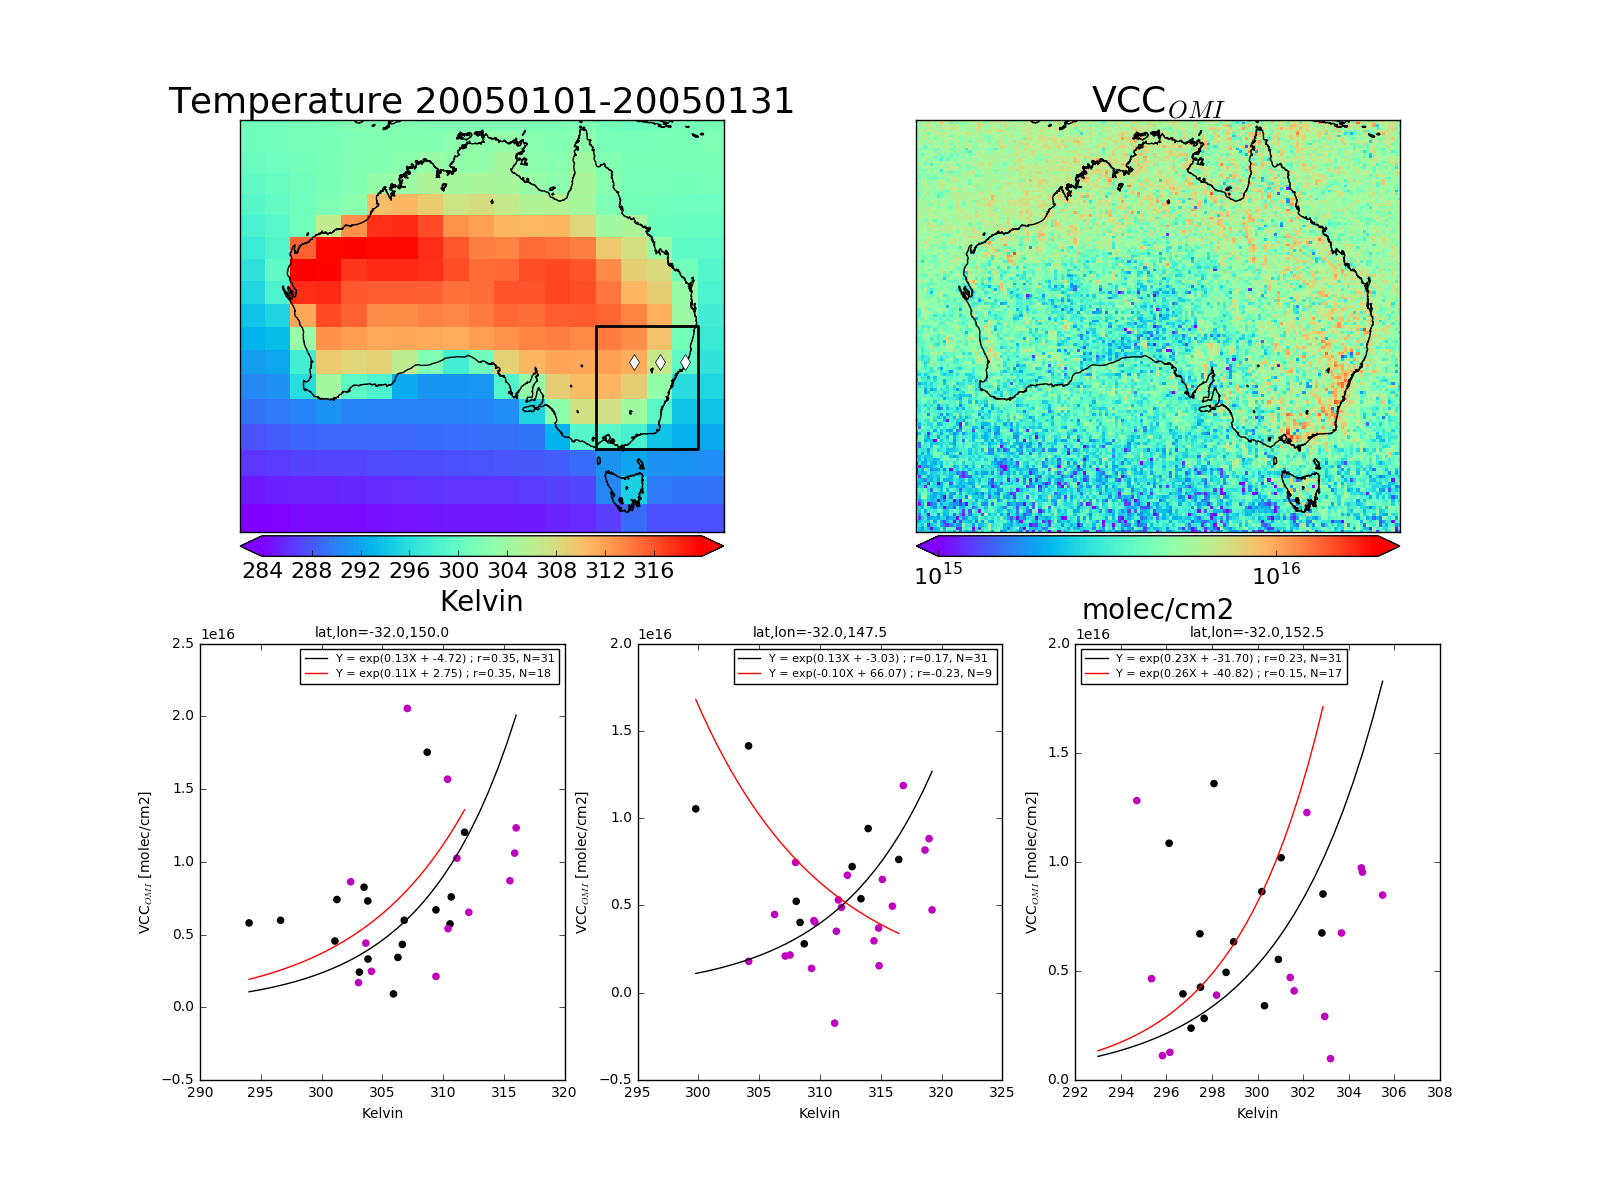
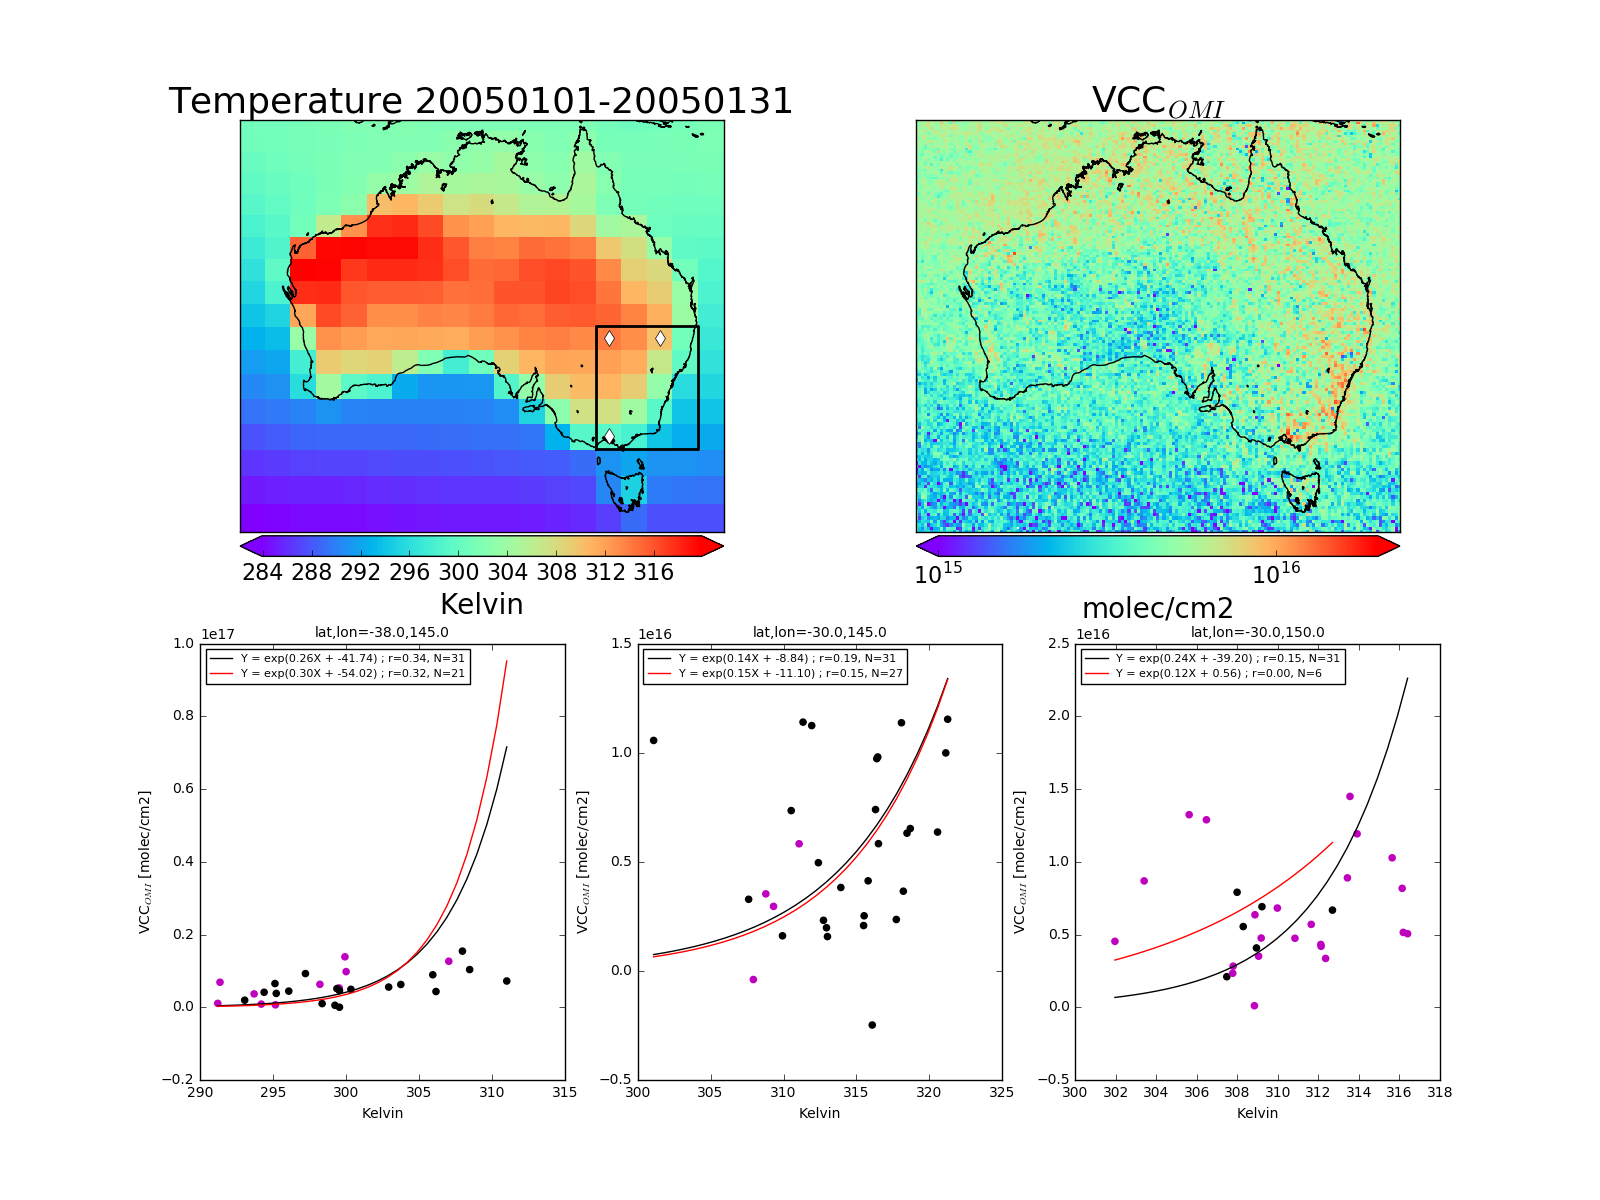
rerunning hcho vs temp plots

diff --git a/tests.py b/tests.py
@@ -1741,10 +1741,10 @@ if __name__ == '__main__':
     ## Also show affect on regions            # Run 23/7/18 (TODO: Update to add table of data)
     #test_filters.test_mask_effects(datetime(2005,1,1),datetime(2006,1,1))
     ## How mnay pixels are filtered out?     # run 23/7/18
-    test_filters.summary_pixels_filtered()   # run 26/7/18 # tabulate pixel removals
+    #test_filters.summary_pixels_filtered()   # run 26/7/18 # tabulate pixel removals
     #test_filters.show_mask_filtering()
     ## look at hcho vs fire
-    #test_filters.HCHO_vs_temp_vs_fire()
+    test_filters.HCHO_vs_temp_vs_fire()
 
     ######
     ### Tests to be sorted into files

diff --git a/classes/E_new.py b/classes/E_new.py
@@ -31,7 +31,7 @@ from utilities import plotting as pp
 ### GLOBALS ###
 ###############
 
-__VERBOSE__=True
+__VERBOSE__=False
 __DEBUG__=False
 __E_new_keys__=[            # #  # {time, lats, lons}
                 'BG_OMI',       #  {31, 152, 152}
